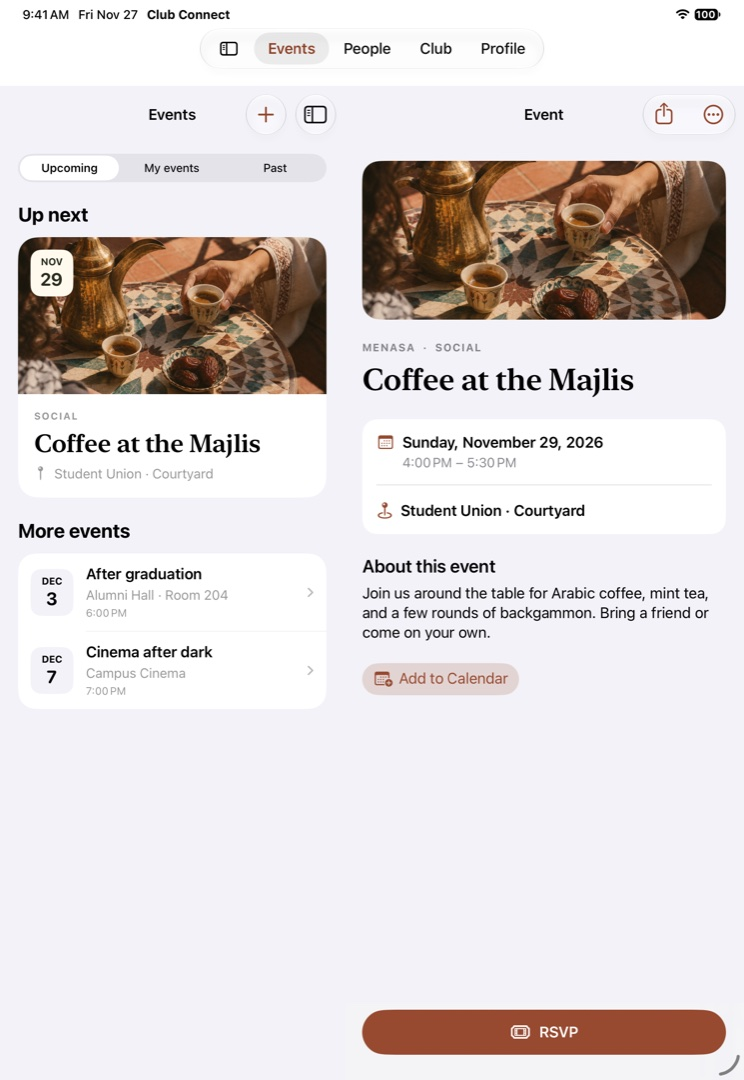
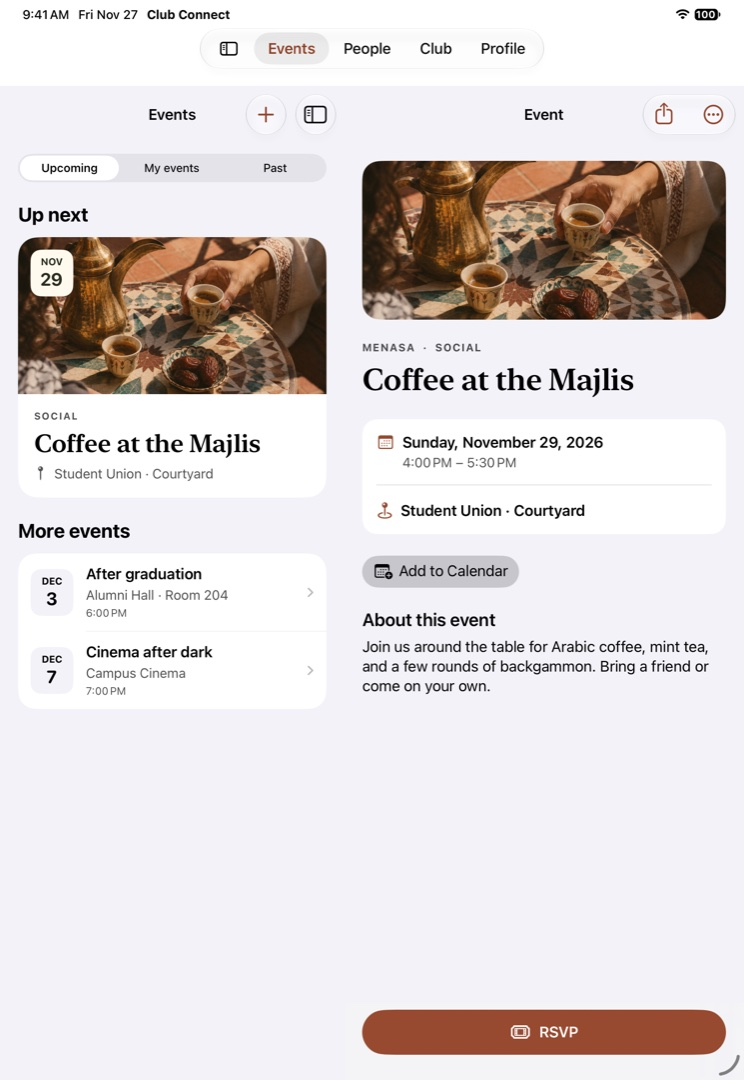
Record the verified TestFlight pilot and device-specific UI checks

diff --git a/ClubConnectUITests/PilotFlowTests.swift b/ClubConnectUITests/PilotFlowTests.swift
@@ -3,6 +3,7 @@ import XCTest
 @MainActor
 final class PilotFlowTests: XCTestCase {
     override func setUpWithError() throws {
+        try XCTSkipUnless(UIDevice.current.userInterfaceIdiom == .phone, "These flows exercise the iPhone tab bar and compact navigation.")
         continueAfterFailure = false
     }
 
@@ -86,9 +87,8 @@ final class PilotFlowTests: XCTestCase {
         let device = XCUIDevice.shared
         let original = device.appearance
         defer { device.appearance = original }
-        device.appearance = .dark
-
         let app = launchDemo()
+        device.appearance = .dark
         app.tabBars.buttons["Events"].tap()
         app.buttons["event-a1000000-0000-4000-8000-000000000001"].tap()
         XCTAssertTrue(app.buttons["RSVP"].waitForExistence(timeout: 5))

diff --git a/README.md b/README.md
@@ -12,7 +12,7 @@ Open the **ClubConnect** scheme in `ClubConnect.xcodeproj` with Xcode 27.2. Sele
 - **Explore the sample community** opens fictional student and alumni profiles and three upcoming campus events. Sample changes persist on that device. Organizers can try publishing an event and checking in their own sample ticket. Wallet passes are issued for live events.
 - **Organizers** redeem their private one-time invitation in Profile. The club page includes the public invitation, editable identity, colors and logo. Saved events appear in the community's Events tab.
 - **At the door**, open the event's organizer menu and choose **Check in members**. Scan the member's QR code or enter their ticket code. The shared backend binds the ticket to the event and records a single successful check-in.
-- **Internal TestFlight** uses the MENASA Pilot group. Internal testers need eligible App Store Connect user access. The club invitation opens the app for someone who has installed it. TestFlight enrollment is managed separately. [App Store Connect](https://appstoreconnect.apple.com/apps/6840182659/testflight) · [Club invitation](https://redab2.github.io/clubconnect/?club=menasa)
+- **Internal TestFlight** build 1.0 (1) is available in the MENASA Pilot group. Internal testers need eligible App Store Connect user access. The club invitation opens the app for someone who has installed it. TestFlight enrollment is managed separately. [App Store Connect](https://appstoreconnect.apple.com/apps/6840182659/testflight) · [Club invitation](https://redab2.github.io/clubconnect/?club=menasa)
 
 ## Shared service
 
